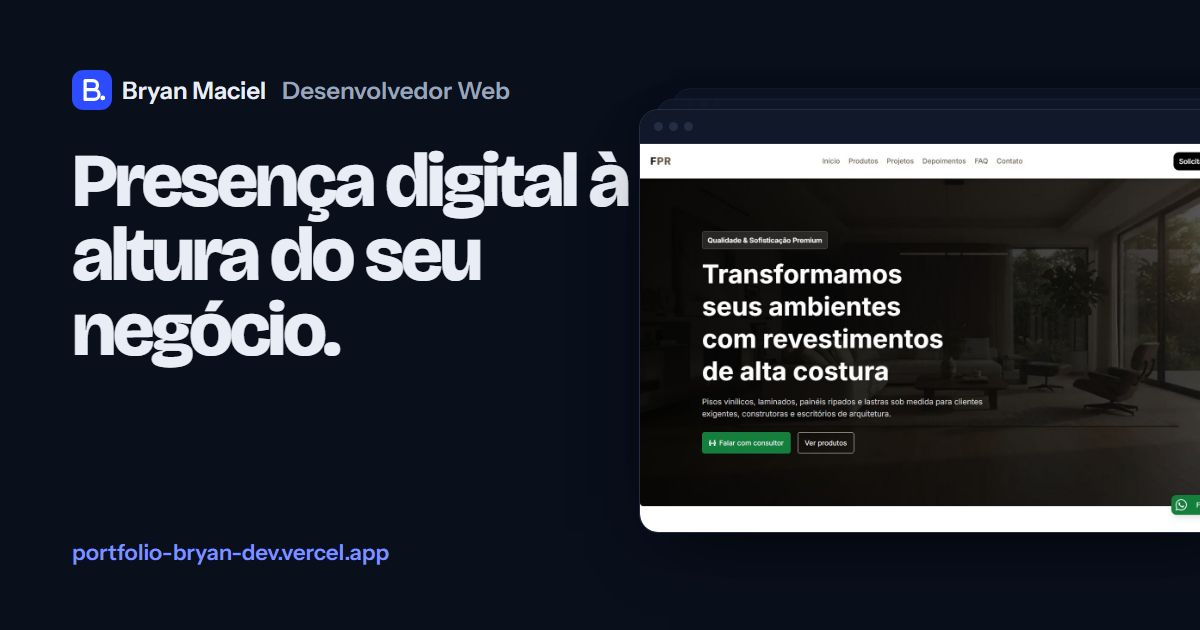
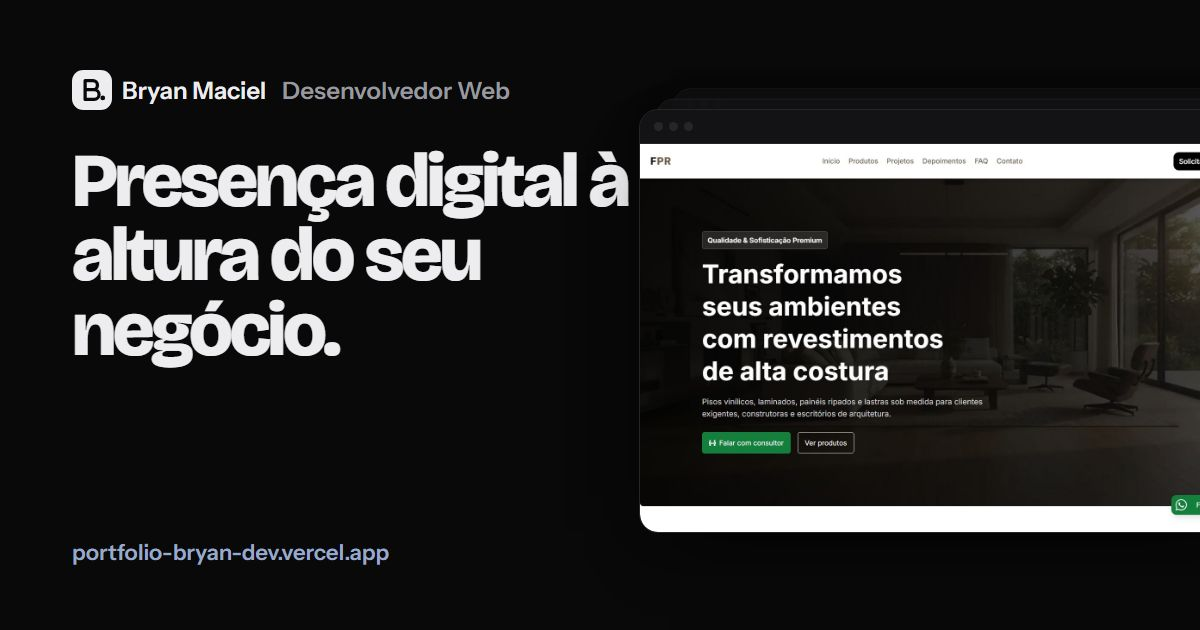
style: tone down palette and use near-black dark theme

diff --git a/src/Components/CtaFaixa/index.jsx b/src/Components/CtaFaixa/index.jsx
@@ -14,37 +14,34 @@ const CtaFaixa = () => {
           whileInView={{ opacity: 1, y: 0 }}
           viewport={{ once: true, margin: "-80px" }}
           transition={{ duration: 0.7, ease: [0.22, 1, 0.36, 1] }}
-          className="relative overflow-hidden rounded-[2rem] bg-[#2d4bff] px-6 py-14 text-white sm:px-14 sm:py-16"
+          className="relative overflow-hidden rounded-[2rem] bg-paper px-6 py-14 ring-1 ring-line sm:px-14 sm:py-16"
         >
           {/* Monograma ampliado como textura */}
           <svg
             viewBox="0 0 32 32"
             aria-hidden="true"
-            className="pointer-events-none absolute -right-10 -bottom-16 h-80 w-80 opacity-[0.12]"
+            className="pointer-events-none absolute -right-10 -bottom-16 h-80 w-80 text-ink opacity-[0.05]"
           >
             <path
               d="M10.5 8.5h6.25a3.6 3.6 0 0 1 0 7.2H10.5m0 0h7.25a3.9 3.9 0 0 1 0 7.8H10.5V8.5"
               fill="none"
-              stroke="#fff"
+              stroke="currentColor"
               strokeWidth="2.6"
               strokeLinecap="round"
               strokeLinejoin="round"
             />
-            <circle cx="24.6" cy="22.3" r="1.9" fill="#fff" />
+            <circle cx="24.6" cy="22.3" r="1.9" fill="currentColor" />
           </svg>
 
           <div className="relative max-w-2xl">
-            <h2 className="text-[clamp(2rem,4.2vw,3.25rem)] leading-[1.04] font-bold tracking-[-0.035em] !text-white">
+            <h2 className="text-[clamp(2rem,4.2vw,3.25rem)] leading-[1.04] font-bold tracking-[-0.035em]">
               {t.ctaFaixa.titulo}
             </h2>
-            <p className="mt-5 max-w-xl text-lg text-white/80">
+            <p className="mt-5 max-w-xl text-lg text-slate">
               {t.ctaFaixa.texto}
             </p>
             <div className="mt-9 flex flex-wrap gap-3">
-              <a
-                href="#contato"
-                className="btn group bg-white text-[#0f1a2e] hover:bg-white/90"
-              >
+              <a href="#contato" className="btn btn-primario group">
                 {t.ctaFaixa.botao}
                 <ArrowRight
                   size={17}
@@ -52,10 +49,7 @@ const CtaFaixa = () => {
                   className="transition-transform group-hover:translate-x-1"
                 />
               </a>
-              <a
-                href={`mailto:${perfil.email}`}
-                className="btn text-white ring-1 ring-white/40 ring-inset hover:bg-white/10"
-              >
+              <a href={`mailto:${perfil.email}`} className="btn btn-secundario">
                 <Mail size={17} aria-hidden="true" />
                 {t.ctaFaixa.secundario}
               </a>

diff --git a/src/index.css b/src/index.css
@@ -22,30 +22,34 @@
 :root,
 [data-theme="dark"] {
   color-scheme: dark;
-  --c-fundo: #0a0f1c;
-  --c-superficie: #111829;
-  --c-texto: #e9edf5;
-  --c-suave: #9aa4ba;
-  --c-borda: #232d44;
-  --c-destaque: #4f68ff;
-  --c-destaque-forte: #b3bfff;
-  --c-destaque-fundo: #1a2350;
-  --c-hover-botao: #3d55ee;
-  --c-sombra: 0 0 0 / 0.55;
+  --c-fundo: #09090a;
+  --c-superficie: #131315;
+  --c-texto: #ededef;
+  --c-suave: #98989f;
+  --c-borda: #26262a;
+  --c-destaque: #9aa9c9;
+  --c-destaque-forte: #c3cde2;
+  --c-destaque-fundo: #1c1e24;
+  --c-botao: #ededef;
+  --c-botao-texto: #09090a;
+  --c-botao-hover: #ffffff;
+  --c-sombra: 0 0 0 / 0.6;
 }
 
 [data-theme="light"] {
   color-scheme: light;
-  --c-fundo: #eef0f3;
+  --c-fundo: #f4f4f5;
   --c-superficie: #ffffff;
-  --c-texto: #0f1a2e;
-  --c-suave: #566175;
-  --c-borda: #d6dbe3;
-  --c-destaque: #2d4bff;
-  --c-destaque-forte: #1f36d1;
-  --c-destaque-fundo: #e3e7ff;
-  --c-hover-botao: #1f36d1;
-  --c-sombra: 15 26 46 / 0.45;
+  --c-texto: #111113;
+  --c-suave: #5e5e67;
+  --c-borda: #e2e2e6;
+  --c-destaque: #44557d;
+  --c-destaque-forte: #2f3d5e;
+  --c-destaque-fundo: #e8ebf1;
+  --c-botao: #111113;
+  --c-botao-texto: #ffffff;
+  --c-botao-hover: #2a2a2e;
+  --c-sombra: 17 17 19 / 0.28;
 }
 
 @layer base {
@@ -78,7 +82,7 @@
   }
 
   ::selection {
-    @apply bg-cobalt text-white;
+    @apply bg-ink text-porcelain;
   }
 
   :focus-visible {
@@ -100,7 +104,7 @@
   }
 
   .btn-primario {
-    @apply bg-cobalt text-white shadow-[0_10px_30px_-12px_var(--c-destaque)] hover:bg-[var(--c-hover-botao)];
+    @apply bg-[var(--c-botao)] text-[var(--c-botao-texto)] hover:bg-[var(--c-botao-hover)];
   }
 
   .btn-secundario {
@@ -112,7 +116,7 @@
   }
 
   .campo {
-    @apply w-full rounded-xl border border-line bg-paper px-4 py-3 text-ink placeholder:text-slate/60 transition-colors focus:border-cobalt focus:outline-none focus:ring-4 focus:ring-cobalt-soft;
+    @apply w-full rounded-xl border border-line bg-paper px-4 py-3 text-ink placeholder:text-slate/60 transition-colors focus:border-slate focus:outline-none focus:ring-4 focus:ring-cobalt-soft;
   }
 
   .rotulo {

diff --git a/index.html b/index.html
@@ -16,7 +16,7 @@
     />
     <meta name="author" content="Bryan Maciel" />
     <meta name="robots" content="index, follow" />
-    <meta name="theme-color" content="#0a0f1c" />
+    <meta name="theme-color" content="#09090a" />
     <link rel="canonical" href="https://portfolio-bryan-dev.vercel.app/" />
     <link
       rel="alternate"
@@ -50,7 +50,7 @@
           if (tema === "light")
             document
               .querySelector('meta[name="theme-color"]')
-              .setAttribute("content", "#eef0f3");
+              .setAttribute("content", "#f4f4f5");
         }
       } catch (e) {}
     </script>
@@ -65,10 +65,7 @@
     <meta property="og:locale:alternate" content="en_US" />
     <meta property="og:locale:alternate" content="es_ES" />
     <meta property="og:url" content="https://portfolio-bryan-dev.vercel.app/" />
-    <meta
-      property="og:title"
-      content="Bryan Maciel | Desenvolvedor Web"
-    />
+    <meta property="og:title" content="Bryan Maciel | Desenvolvedor Web" />
     <meta
       property="og:description"
       content="Presença digital à altura do seu negócio. Sites institucionais, landing pages e aplicações web sob medida."
@@ -125,7 +122,9 @@
             "name": "Bryan Maciel | Desenvolvimento Web",
             "url": "https://portfolio-bryan-dev.vercel.app/",
             "image": "https://portfolio-bryan-dev.vercel.app/og.jpg",
-            "founder": { "@id": "https://portfolio-bryan-dev.vercel.app/#bryan" },
+            "founder": {
+              "@id": "https://portfolio-bryan-dev.vercel.app/#bryan"
+            },
             "description": "Desenvolvimento de sites institucionais, landing pages e aplicações web sob medida.",
             "serviceType": [
               "Criação de sites institucionais",

diff --git a/src/Data/projetos.js b/src/Data/projetos.js
@@ -186,7 +186,6 @@ const projetos = [
     nome: "FinTrack",
     aba: "desenvolvimento",
     status: "saas",
-    capa: { cor: "#1b1640", detalhe: "#a99bff" },
     codigo: "https://github.com/Bryan-M-Almeida/FinTrack",
     resumo: {
       pt: "Plataforma de gestão financeira pessoal com controle de contas, agendamentos, simulações e painel analítico. Em fase inicial: a navegação está pronta e os módulos estão em construção.",
@@ -216,7 +215,6 @@ const projetos = [
     aba: "desenvolvimento",
     status: "jogo",
     privado: true,
-    capa: { cor: "#2a1f3d", detalhe: "#c9a7ff" },
     resumo: {
       pt: "Metroidvania 2D em Unity 6 inspirado em Hollow Knight, com animação quadro a quadro e poderes de manipular o tempo. Movimentação da protagonista pronta.",
       en: "2D metroidvania in Unity 6 inspired by Hollow Knight, with frame-by-frame animation and time-bending powers. Player movement is done.",
@@ -229,7 +227,6 @@ const projetos = [
     nome: "NEXUS.OS",
     aba: "desenvolvimento",
     status: "sistema",
-    capa: { cor: "#0d1b2a", detalhe: "#7fd1ff" },
     codigo: "https://github.com/Bryan-M-Almeida/NexusOS",
     resumo: {
       pt: "Sistema operacional bootável escrito do zero em Assembly e C, com sistema de arquivos próprio, shell e interface em três idiomas.",
@@ -244,7 +241,6 @@ const projetos = [
     aba: "desenvolvimento",
     status: "jogo",
     privado: true,
-    capa: { cor: "#14301f", detalhe: "#9be3b0" },
     resumo: {
       pt: "Jogos 2D e 3D em fase inicial, incluindo uma releitura de Pac-Man, usados para testar mecânicas antes de virarem projetos maiores.",
       en: "Early-stage 2D and 3D games, including a Pac-Man remake, used to test mechanics before they grow into bigger projects.",

diff --git a/src/Components/Projetos/CartaoDesenvolvimento.jsx b/src/Components/Projetos/CartaoDesenvolvimento.jsx
@@ -9,20 +9,19 @@ const ICONES_CAPA = { jogo: Gamepad2, sistema: Cpu, saas: ChartLine };
 const CapaDesenhada = ({ projeto }) => {
   const Icone = ICONES_CAPA[projeto.status] ?? Cpu;
   return (
-    <div
-      className="relative grid aspect-[16/10] place-items-center overflow-hidden"
-      style={{ background: projeto.capa.cor }}
-    >
+    <div className="relative grid aspect-[16/10] place-items-center overflow-hidden border-b border-line bg-porcelain">
       <div
-        className="absolute -top-1/3 -right-1/4 h-[140%] w-[80%] rounded-full opacity-30 blur-3xl transition-transform duration-700 group-hover:scale-110"
-        style={{ background: projeto.capa.detalhe }}
+        className="absolute inset-0 opacity-60"
+        style={{
+          backgroundImage:
+            "radial-gradient(circle at 70% 20%, var(--c-borda), transparent 60%)",
+        }}
       />
       <Icone
-        size={72}
-        strokeWidth={1.25}
+        size={64}
+        strokeWidth={1.1}
         aria-hidden="true"
-        className="relative transition-transform duration-500 group-hover:-rotate-6 group-hover:scale-110"
-        style={{ color: projeto.capa.detalhe }}
+        className="relative text-slate transition-transform duration-500 group-hover:-rotate-6 group-hover:scale-110"
       />
     </div>
   );

diff --git a/src/Components/Logo/index.jsx b/src/Components/Logo/index.jsx
@@ -7,16 +7,16 @@ export const Marca = ({ size = 32, className = "" }) => (
     aria-hidden="true"
     className={className}
   >
-    <rect width="32" height="32" rx="9" fill="var(--c-destaque)" />
+    <rect width="32" height="32" rx="9" fill="var(--c-texto)" />
     <path
       d="M10.5 8.5h6.25a3.6 3.6 0 0 1 0 7.2H10.5m0 0h7.25a3.9 3.9 0 0 1 0 7.8H10.5V8.5"
       fill="none"
-      stroke="#fff"
+      stroke="var(--c-fundo)"
       strokeWidth="2.6"
       strokeLinecap="round"
       strokeLinejoin="round"
     />
-    <circle cx="24.6" cy="22.3" r="1.9" fill="#fff" />
+    <circle cx="24.6" cy="22.3" r="1.9" fill="var(--c-fundo)" />
   </svg>
 );
 

diff --git a/src/Components/Processo/index.jsx b/src/Components/Processo/index.jsx
@@ -16,7 +16,7 @@ const Processo = () => {
         <ol className="relative mt-16 grid gap-10 md:grid-cols-4 md:gap-8">
           <motion.span
             aria-hidden="true"
-            className="absolute top-5 left-5 hidden h-px origin-left bg-cobalt md:block"
+            className="absolute top-5 left-5 hidden h-px origin-left bg-slate/50 md:block"
             style={{ right: "calc(25% - 1.25rem)" }}
             initial={{ scaleX: 0 }}
             whileInView={{ scaleX: 1 }}

diff --git a/src/Components/Hero/PilhaSites.jsx b/src/Components/Hero/PilhaSites.jsx
@@ -149,7 +149,7 @@ const PilhaSites = () => {
           >
             <motion.span
               key={i === ativo ? `ativo-${ativo}-${rodando}` : s.id}
-              className="block h-full origin-left rounded-full bg-cobalt"
+              className="block h-full origin-left rounded-full bg-ink"
               initial={{ scaleX: i < ativo ? 1 : 0 }}
               animate={{
                 scaleX: i < ativo ? 1 : i === ativo ? (rodando ? 1 : 0.15) : 0,

diff --git a/src/Components/BotaoTema/index.jsx b/src/Components/BotaoTema/index.jsx
@@ -3,7 +3,7 @@ import { AnimatePresence, motion } from "motion/react";
 import { Moon, Sun } from "lucide-react";
 import { useI18n } from "../../i18n/contexto";
 
-const COR_BARRA = { dark: "#0a0f1c", light: "#eef0f3" };
+const COR_BARRA = { dark: "#09090a", light: "#f4f4f5" };
 
 // O tema inicial é aplicado por um script no index.html (escuro por padrão), antes da página aparecer.
 const BotaoTema = () => {
